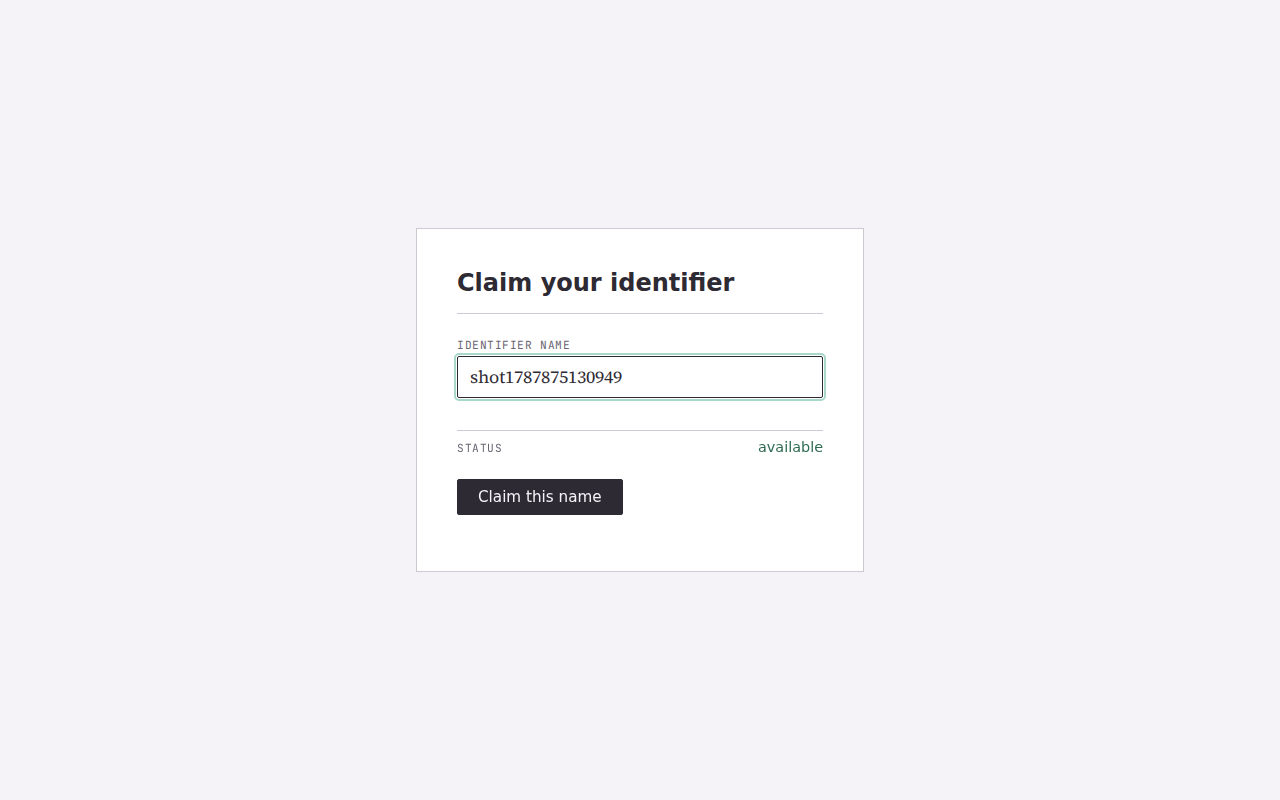
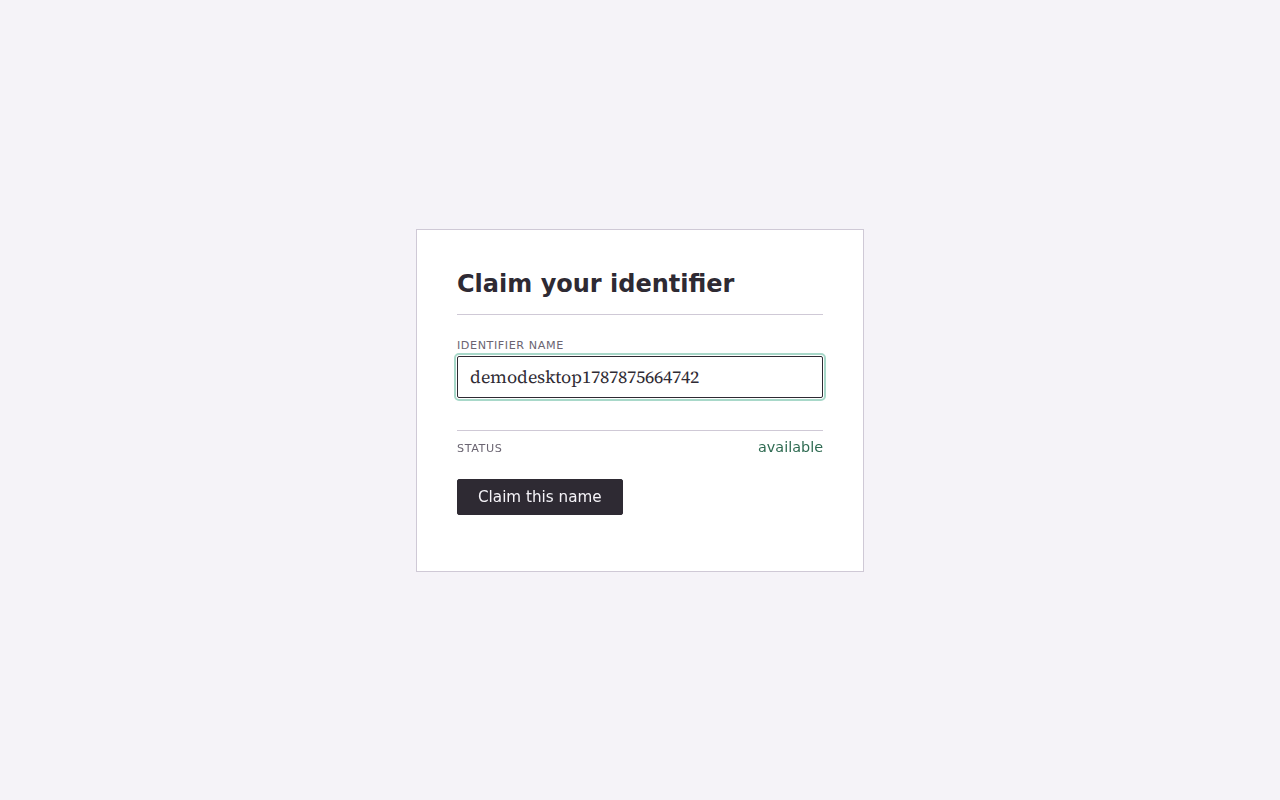
fix: address second-round finish review findings (mono labels, motion, modal design, seal weight, placeholder contrast, aria)
- Change .ledger-label from --font-mono to --font-ui: labels are UI chrome,
  not pubkeys/timestamps, per project's font-usage direction.
- Add restrained transitions: button hover/focus (background-color,
  border-color), input focus (border-color, outline-color), and a
  fade/scale-in on the policy modal via svelte/transition.
- Redesign the policy modal to match the document/ledger language: a
  hairline-ruled header with a "POLICY" serial label and "Before you claim"
  heading, mirroring CredentialCard__header's treatment.
- Give the stamped seal on /claimed more presence: 56px -> 68px, thicker
  inner border (1.5px -> 2px) plus an outer thin outline ring for a
  double-ring effect (flat, no gradients/skeuomorphism).
- Add explicit ::placeholder color (var(--color-ink-muted)) on text inputs;
  5.63:1 against the white input background, clears WCAG AA (4.5:1).
- Add aria-describedby (and aria-labelledby) to the policy modal dialog,
  tying it to its new heading and warning paragraph.
- Re-capture all 10 Impeccable review screenshots against the updated UI.

Claude-Session: https://claude.ai/code/session_01UioXwDsg4oXxFWiAXYgyQa

Changed region(s): [[0.3438, 0.4062, 0.5312, 0.5], [0.375, 0.3438, 0.5625, 0.375]]

diff --git a/src/routes/claim/+page.svelte b/src/routes/claim/+page.svelte
@@ -1,5 +1,6 @@
 <script lang="ts">
   import { goto } from '$app/navigation';
+  import { fade, scale } from 'svelte/transition';
   import CredentialCard from '$lib/client/CredentialCard.svelte';
   import { checkAvailability, debounce, submitClaim, type AvailabilityState } from '$lib/client/claimForm';
 
@@ -70,9 +71,20 @@
 </CredentialCard>
 
 {#if showModal}
-  <div class="modal" role="dialog" aria-modal="true">
-    <div class="modal__content">
-      <p>
+  <div
+    class="modal"
+    role="dialog"
+    aria-modal="true"
+    aria-labelledby="modal-title"
+    aria-describedby="modal-description"
+    transition:fade={{ duration: 200 }}
+  >
+    <div class="modal__content" transition:scale={{ duration: 200, start: 0.98 }}>
+      <div class="modal__header">
+        <span class="ledger-label">Policy</span>
+        <h2 id="modal-title">Before you claim</h2>
+      </div>
+      <p id="modal-description">
         This identifier is automatically freed for someone else to claim after 6 months with no lookup
         activity against it.
       </p>
@@ -114,6 +126,22 @@
     max-width: 24rem;
     padding: var(--space-4);
     border: 1px solid var(--color-line);
+  }
+  .modal__header {
+    border-bottom: 1px solid var(--color-line);
+    padding-bottom: var(--space-2);
+    margin-bottom: var(--space-3);
+  }
+  .modal__header .ledger-label {
+    display: block;
+    margin-bottom: 0.25rem;
+  }
+  .modal__header h2 {
+    font-family: var(--font-ui);
+    font-weight: 600;
+    font-size: 1.15rem;
+    color: var(--color-ink);
+    margin: 0;
   }
   .modal__content button {
     margin-top: var(--space-2);

diff --git a/src/app.css b/src/app.css
@@ -46,7 +46,7 @@ body {
 }
 
 .ledger-label {
-  font-family: var(--font-mono);
+  font-family: var(--font-ui);
   font-size: 0.7rem;
   letter-spacing: 0.05em;
   text-transform: uppercase;
@@ -82,6 +82,7 @@ input:not([type]) {
   background: white;
   color: var(--color-ink);
   width: 100%;
+  transition: border-color 0.15s ease, outline-color 0.15s ease;
 }
 
 input[type='text']:focus,
@@ -89,6 +90,11 @@ input:not([type]):focus {
   border-color: var(--color-ink);
   outline: 2px solid var(--color-accent-mint);
   outline-offset: 1px;
+}
+
+input[type='text']::placeholder,
+input:not([type])::placeholder {
+  color: var(--color-ink-muted);
 }
 
 button {
@@ -100,6 +106,7 @@ button {
   font-family: var(--font-ui);
   font-size: 0.95rem;
   cursor: pointer;
+  transition: background-color 0.15s ease, border-color 0.15s ease;
 }
 
 button:hover:not(:disabled) {
@@ -123,10 +130,12 @@ button.secondary:hover:not(:disabled) {
 
 /* Stamped seal motif (fix 2), reserved for the successful-claim state */
 .seal {
-  width: 56px;
-  height: 56px;
+  width: 68px;
+  height: 68px;
   border-radius: 50%;
-  border: 1.5px solid var(--color-accent-mint-text);
+  border: 2px solid var(--color-accent-mint-text);
+  outline: 1px solid var(--color-accent-mint-text);
+  outline-offset: 3px;
   display: flex;
   align-items: center;
   justify-content: center;
